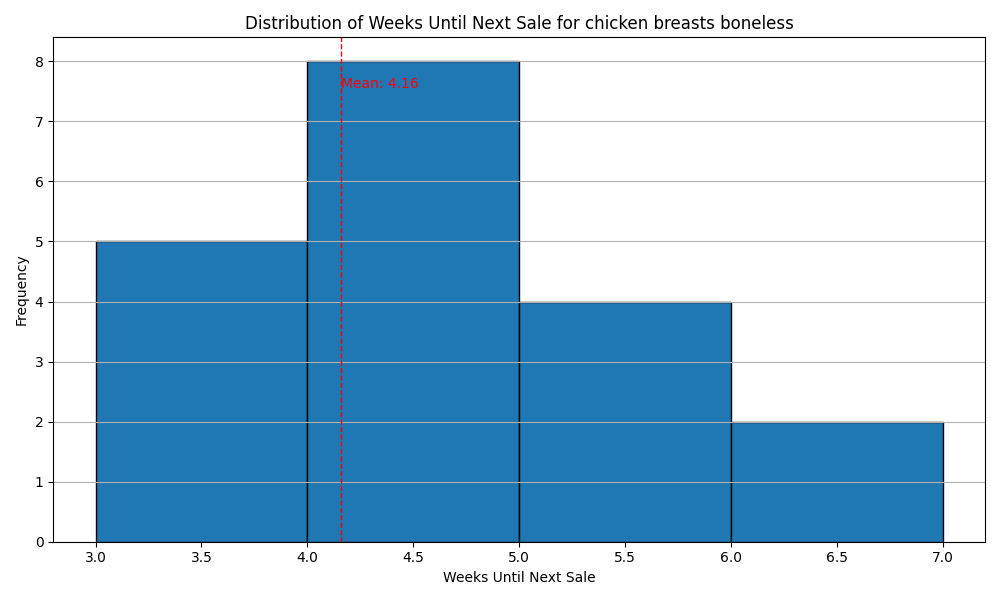
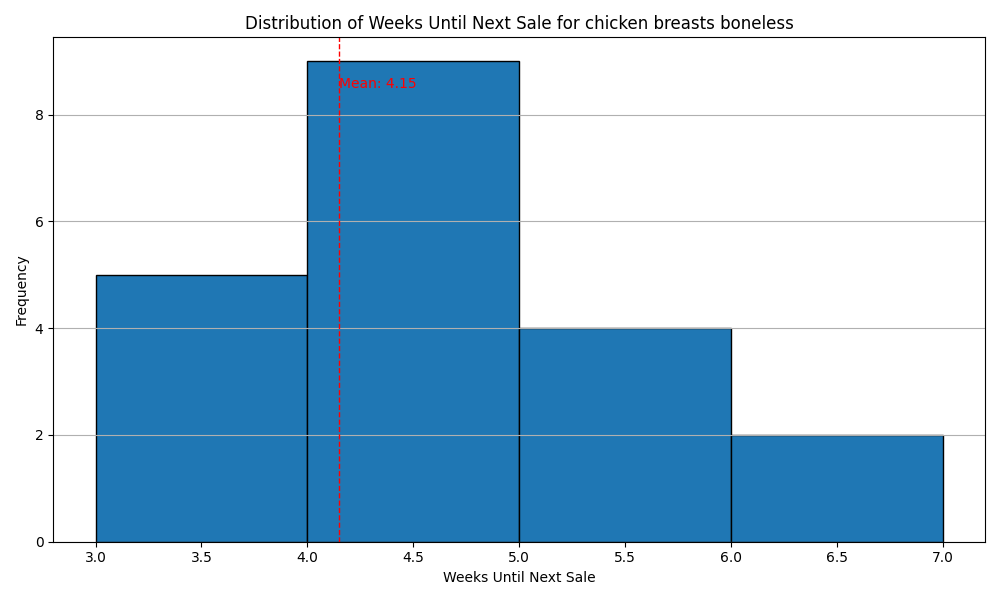
clean up models, new histo diagrams

diff --git a/final.py b/final.py
@@ -89,108 +89,7 @@ def WeeksUntilHisto(data, item):
     # Show the plot
     plt.tight_layout()
     plt.show()
-  
-def predict_weeks_until_next_sale(df):
-    # Drop rows where WeeksUntilNextSale is None
-    df_clean = df.dropna(subset=['WeeksUntilNextSale'])
 
-    # Prepare data for training
-    X = np.array(range(len(df_clean))).reshape(-1, 1)  # Create index as feature
-    y = df_clean['WeeksUntilNextSale'].values
 
-    # Train a linear regression model
-    model = LinearRegression()
-    model.fit(X, y)
-
-    # Predict the number of weeks until the next sale (for the last week in the dataset)
-    prediction = model.predict(np.array([[len(df_clean)]]))  # Predict next week
-
-    return prediction[0]
-
-def SingleItemDf(csv_file_path, item_name):
-    # Read the CSV file into a DataFrame, ensuring the 'Week' column is parsed as dates
-    df = pd.read_csv(csv_file_path, parse_dates=['Week'])
-    
-    # Sort DataFrame by 'Week' to ensure the rows are ordered chronologically
-    df = df.sort_values('Week')
-    
-    # Create a boolean column for item sales (True if the item is on sale in that row)
-    df['OnSale'] = df['Name'] == item_name
-
-    # Create a DataFrame to hold the results
-    unique_weeks = df['Week'].unique()
-    result_df = pd.DataFrame(unique_weeks, columns=['Week'])
-
-    
-    # Mark whether the item was on sale for each week
-    result_df['OnSale'] = result_df['Week'].isin(df.loc[df['OnSale'], 'Week'])
-   
-
-     # Calculate the weeks since the last sale for each week
-    last_sale = None
-    weeks_since_last_sale = []
-    
-    for week in result_df['Week']:
-        if result_df[result_df['Week'] == week]['OnSale'].values[0]:  # Sale happened in this week
-            last_sale = week
-            weeks_since_last_sale.append(0)
-        else:
-            # Calculate weeks since the last sale, if a sale happened before this week
-            if last_sale is not None:
-                weeks_since_last_sale.append((week - last_sale).days // 7)
-            else:
-                weeks_since_last_sale.append(None)  # No sales yet, so weeks_since_last_sale is None
-
-    result_df['WeeksSinceLastSale'] = weeks_since_last_sale
-    
-    next_sale_index = None
-    for i in range(len(result_df) - 1, -1, -1):
-        if result_df.loc[i, 'OnSale']:
-            next_sale_index = i  # Update next sale index
-            result_df.loc[i, 'WeeksUntilNextSale'] = 0
-        else:
-            if next_sale_index is not None:
-                result_df.loc[i, 'WeeksUntilNextSale'] = next_sale_index - i
-            else:
-                result_df.loc[i, 'WeeksUntilNextSale'] = None
-
-    return result_df
-  
-  
-def Predict(df):
-  result_df = df
-
-  # Drop rows with missing values for WeeksUntilNextSale
-  result_df = result_df.dropna(subset=['WeeksSinceLastSale', 'WeeksUntilNextSale'])
-
-  # Define X and y
-  X = result_df[['WeeksSinceLastSale']]
-  y = result_df['WeeksUntilNextSale']
-
-  # Split data into training and test sets
-  X_train, X_test, y_train, y_test = train_test_split(X, y, test_size=0.2, random_state=0)
-
-  # Create and train the linear regression model
-  model = LinearRegression()
-  model.fit(X_train, y_train)
-
-  # Predict on the test set
-  y_pred = model.predict(X_test)
-
-  # Evaluate the model
-#   mse = mean_squared_error(y_test, y_pred)
-#   print(f'Mean Squared Error: {mse}')
-
-  # Automatically make a prediction based on the last row's WeeksSinceLastSale
-  last_weeks_since_last_sale = result_df.iloc[-1]['WeeksSinceLastSale']
-  predicted_weeks_until_next_sale = model.predict([[last_weeks_since_last_sale]])
-  print(f'Predicted Weeks Until Next Sale (based on last row): {predicted_weeks_until_next_sale[0]}')
-  
-  test1 = 4
-  test2 = model.predict([[test1]])
-  print(test2)
-
-df = SingleItemDf('data.csv', 'chicken breasts boneless')
-Predict(df)
-# df = AllDf()
-# WeeksUntilHisto(df, 'chicken breasts boneless')
+df = AllDf()
+WeeksUntilHisto(df, 'chicken breasts boneless')

diff --git a/final3.py b/final3.py
@@ -102,9 +102,8 @@ def train_weeks_until_sale_model(df, item_name):
     df = df.dropna(subset=['weeksUntilNextItemSale'])
     df = df.dropna(subset=['weeksSinceLastItemSale'])
     
-    # Drop rows with sales
-    df = df[df['weeksSinceLastItemSale'] != 0]
-    print(df)
+    # Drop rows with sale weeks for item name
+    # df = df[df['weeksSinceLastItemSale'] != 0]
     
     # Select features and target
     X = df.drop(columns=['weeksUntilNextItemSale'])
@@ -126,12 +125,17 @@ def train_weeks_until_sale_model(df, item_name):
 
 
 data = ProcessData()
-# Train the model for "ground beef"
-model, updated_df = train_weeks_until_sale_model(data, "ground beef")
+# Train the model for "itemName"
+itemName = 'ground beef'
+model, updated_df = train_weeks_until_sale_model(data, itemName)
 
 # Example prediction
-# example_features = updated_df.iloc[0][data.tolist() + ['weeksSinceLastItemSale']].values.reshape(1, -1)
-# predicted_weeks = model.predict(example_features)
-# print(f"Predicted weeks until next sale: {predicted_weeks[0]:.2f}")
-lastWeek = updated_df.iloc[-1]
+X = updated_df.drop(columns=['weeksUntilNextItemSale'])
+lastWeek = X.iloc[-1].to_frame().T  # Convert last row to DataFrame
+lastWeek['weeksSinceLastItemSale'] = 1
 print(lastWeek)
+
+
+# Predict weeks until next sale
+predicted_weeks = model.predict(lastWeek)
+print(f"Predicted weeks until next sale: {predicted_weeks[0]:.2f}")
